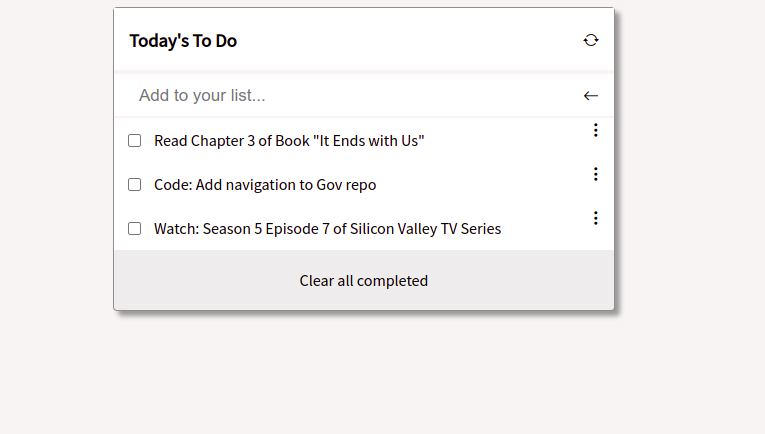
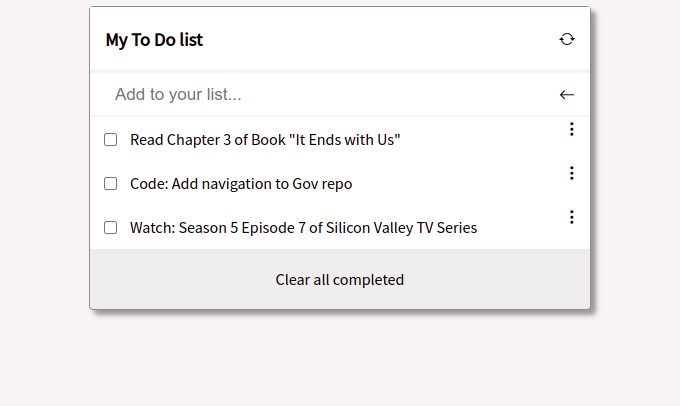
add screenshot

Changed region(s): [[0.1235, 0.0, 0.8956, 0.798]]

diff --git a/dist/index.html b/dist/index.html
@@ -12,7 +12,7 @@
       <header>
         <div class="task-list">
           <div class="task-list-item">
-            <h3 class="title-list">Today's To Do</h3>
+            <h3 class="title-list">My To Do list</h3>
             <i class="bi bi-arrow-repeat"></i>
           </div>
         </div>
